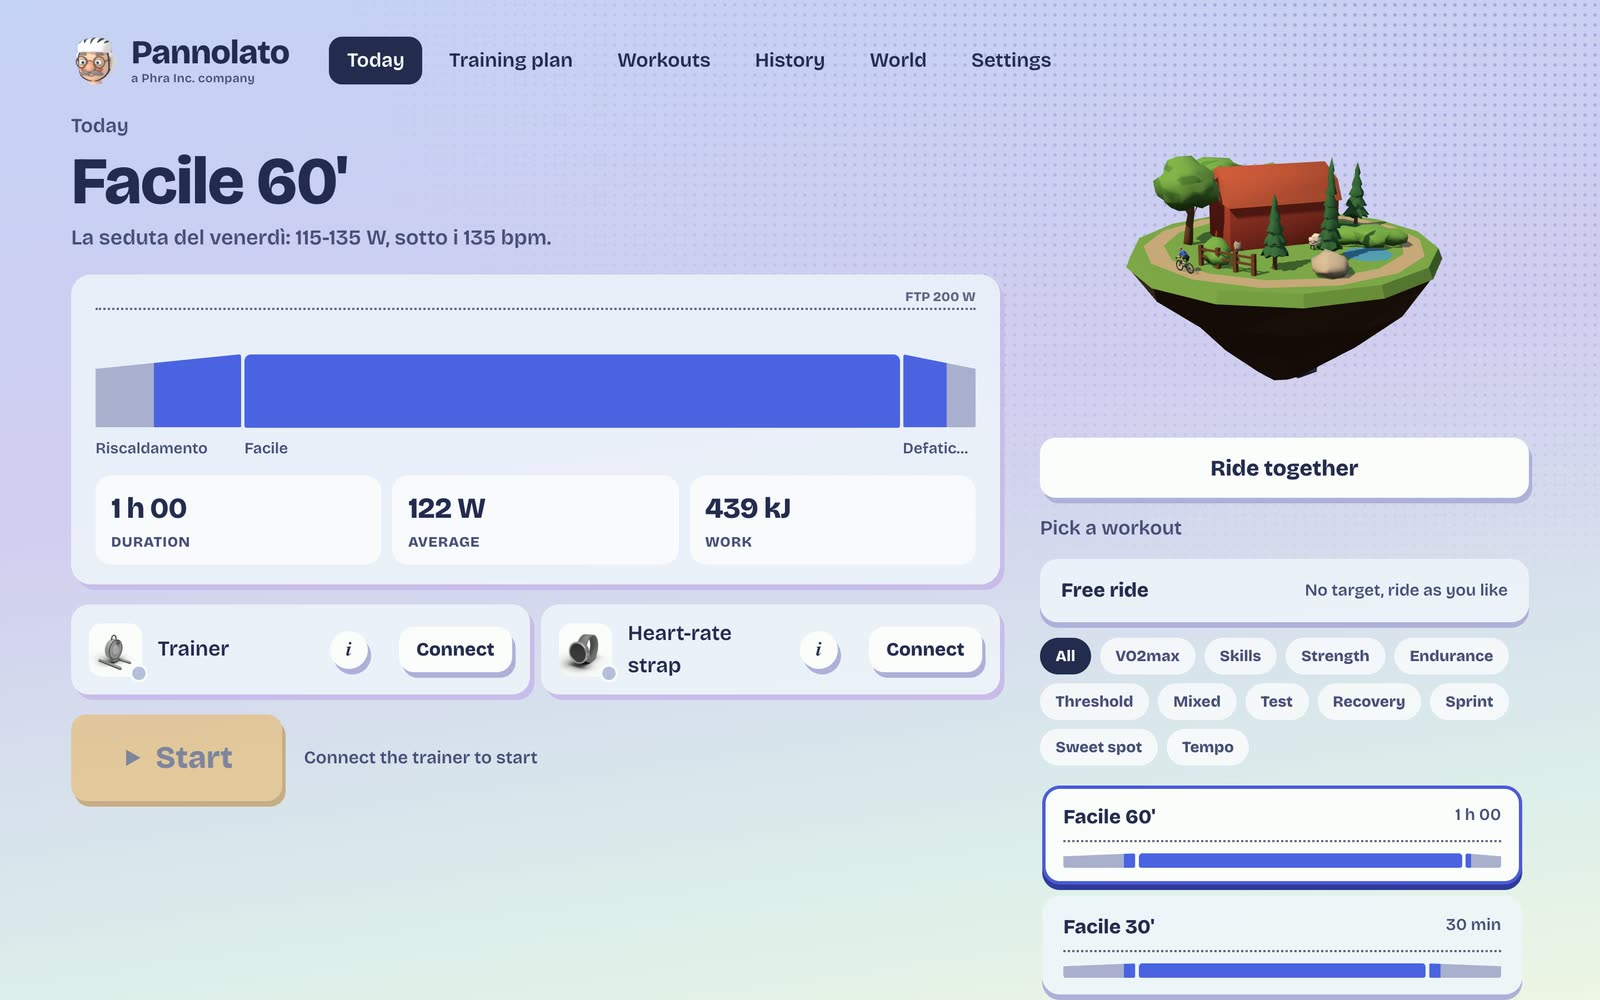
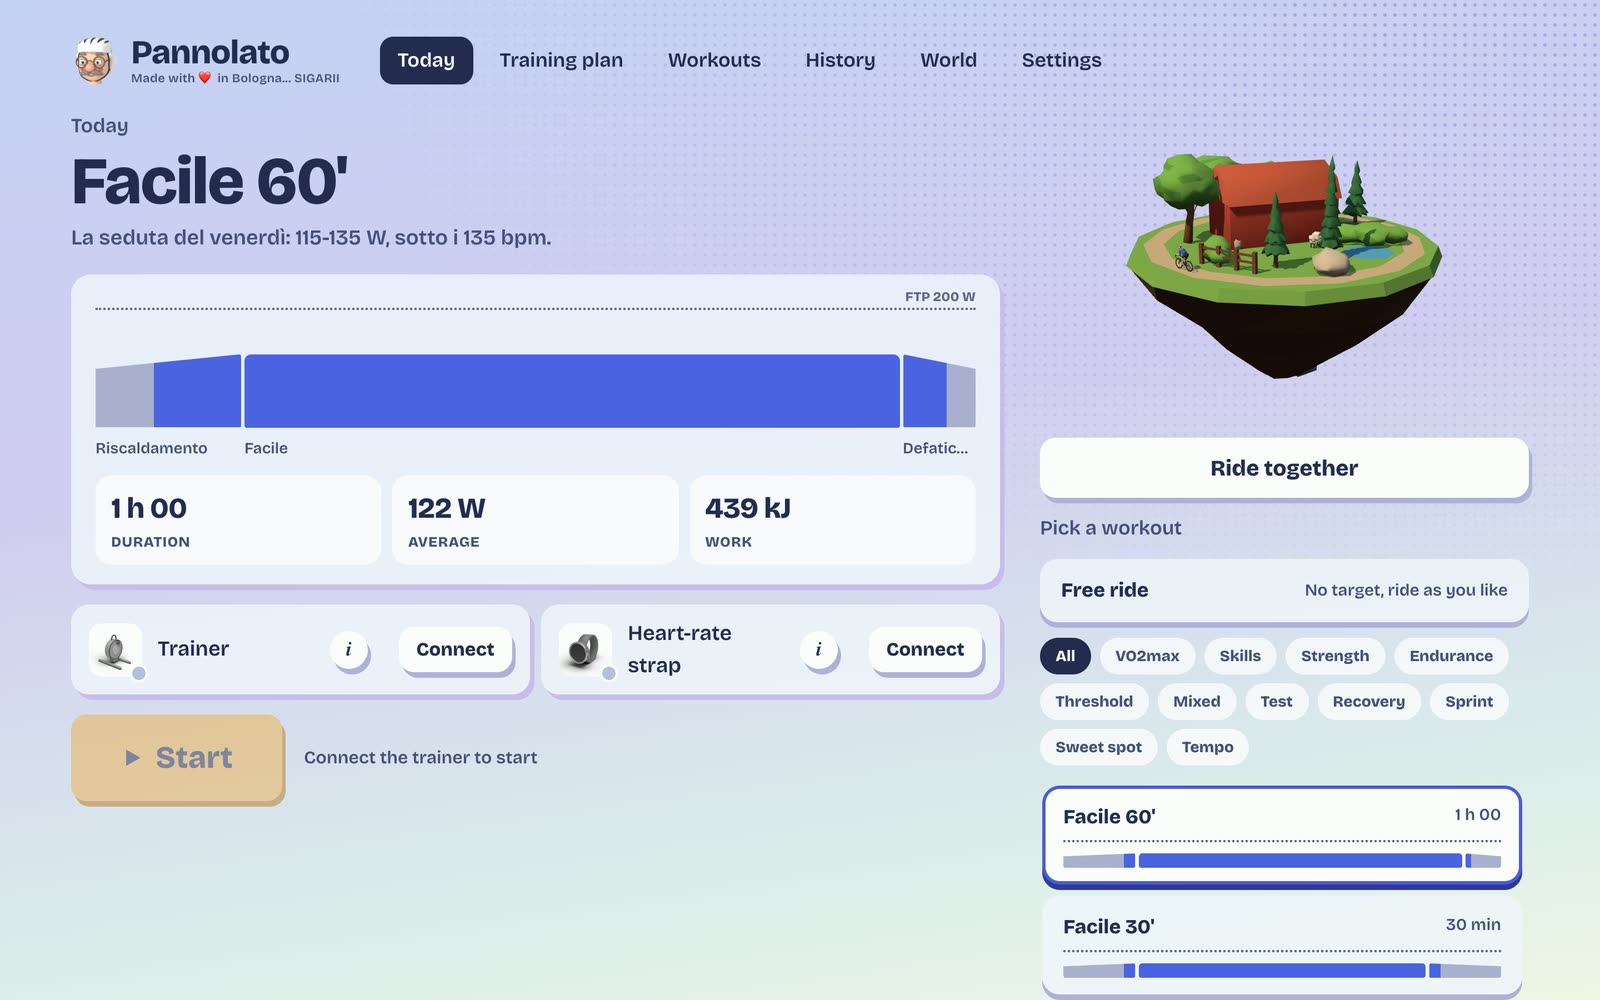
Website: Made in Bologna footer, screens without the old tagline

Changed region(s): [[0.0938, 0.031, 0.6875, 0.093], [0.7188, 0.155, 0.9062, 0.31]]

diff --git a/index.html b/index.html
@@ -377,7 +377,7 @@
 
 <footer>
   <div class="wrap">
-    <span>Pannolato, a Phra Inc. company</span>
+    <span>Made with ❤ in Bologna... SIGARII</span>
     <span>No cookies, no trackers. Download clicks are counted without storing IP addresses.</span>
     <a href="https://github.com/filippoboiani/pannolato-releases#readme">Install guide and release notes</a>
   </div>
